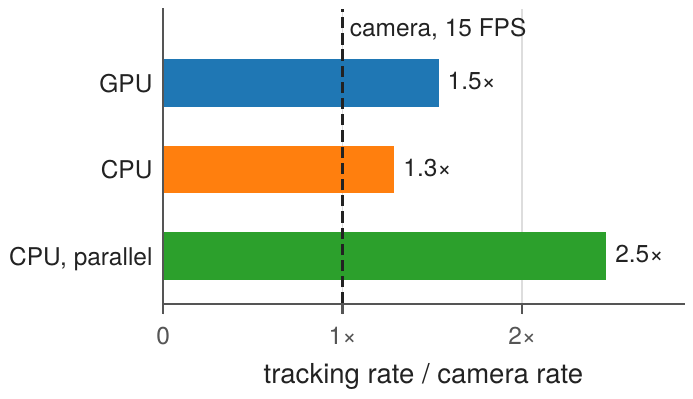
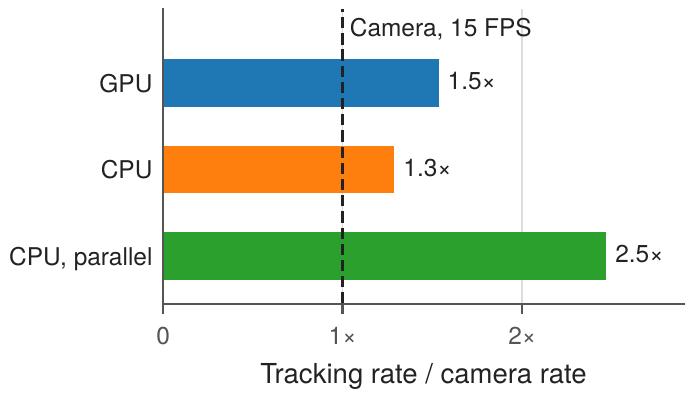
edit readme

Changed region(s): [[0.3636, 0.9023, 0.8485, 0.9925], [0.4848, 0.0301, 0.7879, 0.0902]]

diff --git a/eval/README.md b/eval/README.md
@@ -36,10 +36,10 @@ questions:
 
 | Question | How we test it | What we measure |
 |---|---|---|
-| **GPU as accurate as CPU?** | GPU and CPU versions on the same recording, 5 runs each | distance from the true path |
-| **Can the pipeline run in real time?** | time every processing step of every frame | time per frame vs. time between frames |
-| **How much compute does it take?** | log the Jetson's power and compute metrics | power, CPU, GPU and memory use |
-| **Ablations on sensors and settings?** | change one sensor or setting at a time | error and power vs. the default setup |
+| **GPU as accurate as CPU?** | Run GPU and CPU versions on the same recording, 5 times each | Distance from the ground-truth path (ATE) |
+| **Can the pipeline run in real time?** | Find the processing time of every frame | Processing time vs. time between camera frames |
+| **How much compute does it take?** | Log the Jetson's power, CPU, GPU and memory during every run | Peak power, CPU, GPU and memory use |
+| **Ablations on sensors and settings?** | Change one sensor or setting at a time | Metrics compared with the default setup |
 
 ## 3. Approach
 
@@ -138,7 +138,7 @@ the route (about 21 cm); for the GPU version it is below 6.4 cm half the time an
 | | GPU | CPU | CPU, parallel |
 |---|---|---|---|
 | Tracking, per frame | 43.4 ms | 51.7 ms | 27.0 ms |
-| ORB extraction | 17.9 ms | 26.6 ms | hidden |
+| ORB extraction | 17.9 ms | 26.6 ms | Hidden |
 | Peak CPU (6 cores) | 57 % | 60 % | 61 % |
 | Peak memory (7.6 GB) | 31 % | 31 % | 32 % |
 | Peak GPU load | 31 % | 0 % | 0 % |
